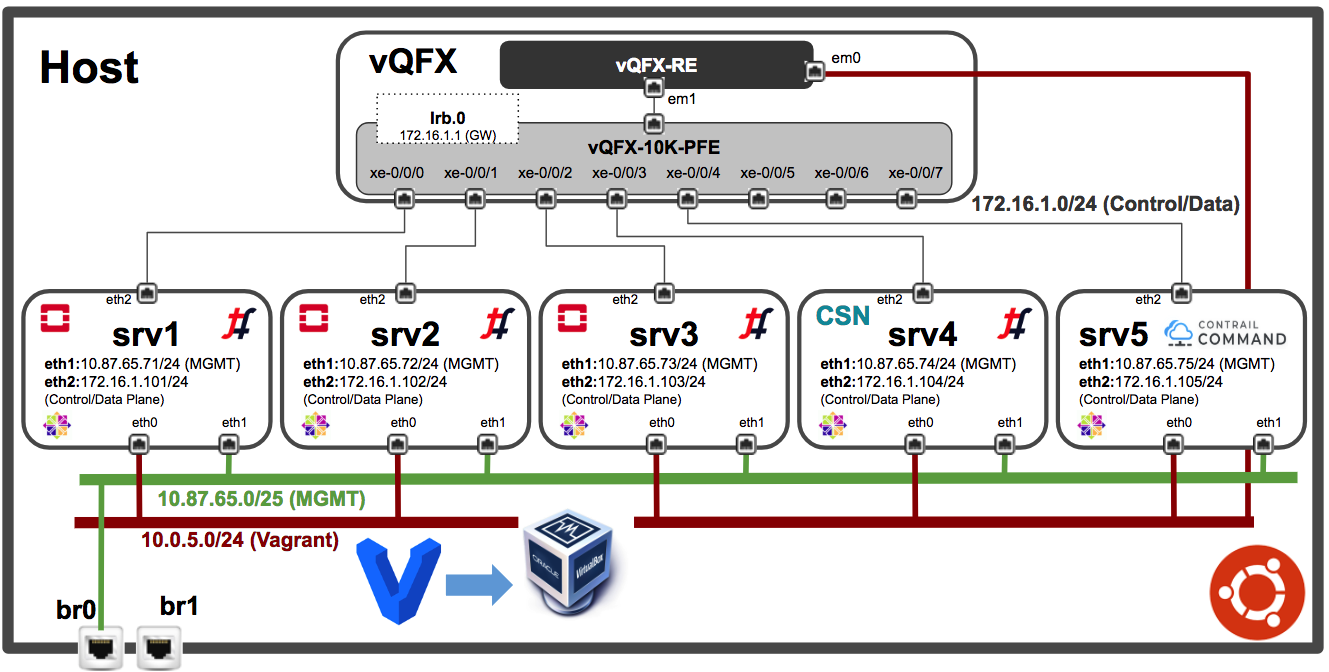
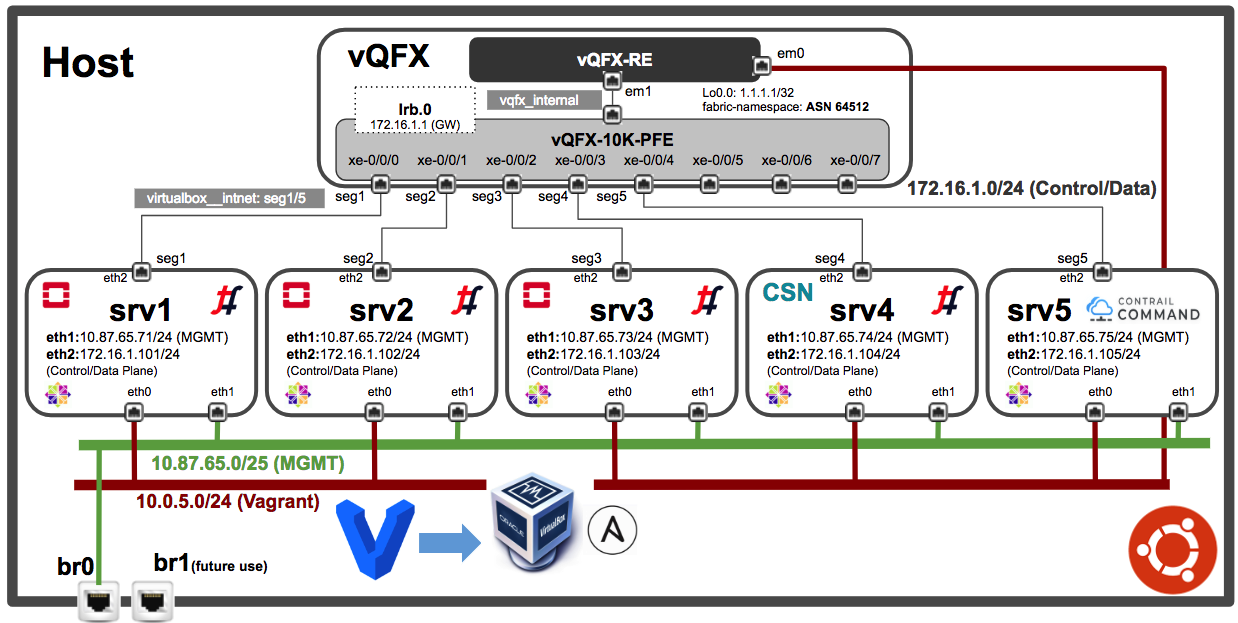
Update Readme

Changed region(s): [[0.0, 0.0, 1.0, 1.0], [0.1228, 0.8844, 0.2149, 0.9149]]

diff --git a/cfm-1vqfx-5srv/README.md b/cfm-1vqfx-5srv/README.md
@@ -1,15 +1,19 @@
-## ![alt text](/images/cfm-top.png) Contrail Fabric Manager Testbed setup (1vQFX and 5 VMs) for CFM Testing
+# ![alt text](/images/cfm-top.png) Contrail Fabric Manager Testbed setup (1vQFX and 5 VMs) for CFM Testing
 
 
 ![Web Console](/images/cfm-1vqfx-5srv-topology.png)
 
 
-The main code of this repository is taken from [Juniper/vqfx10k-vagrant](https://github.com/Juniper/vqfx10k-vagrant) to create a Testbed for CFM testing. Using this repo you can create a topology higglighted in the above diagram for basic CFM testing.
+The main code of this repository is taken from [Juniper/vqfx10k-vagrant](https://github.com/Juniper/vqfx10k-vagrant) to create a Testbed for CFM testing. Using this repo you can create a topology captured in the above diagram for basic CFM testing.
 
 * 1 vQFX 10K
-* 5 VMs CentOS 7.5
+* 5 VMs CentOS 7.5 
+  * 1 Contrail-Command
+  * 1 OpenStack/Contrail Controller
+  * 1 CSN "Contrail Service Node"
+  * 2 Compute nodes
  
-Prerequisites: A host machine with Ubuntu/CentOS OS preinstalled with Vagrant & VirtualBox SW.
+**Prerequisites**: A host machine with Ubuntu/CentOS OS preinstalled with Vagrant & VirtualBox SW.
 
 
 ```bash
@@ -26,7 +30,7 @@ $subnet_mgmt = "10.87.65"
 $subnet_ctrl_data= "172.16.1"
 ```
 
-### Refence
+### References
 
 * <https://github.com/Juniper/contrail-ansible-deployer/wiki>
 * <https://github.com/Juniper/vqfx10k-vagrant>
